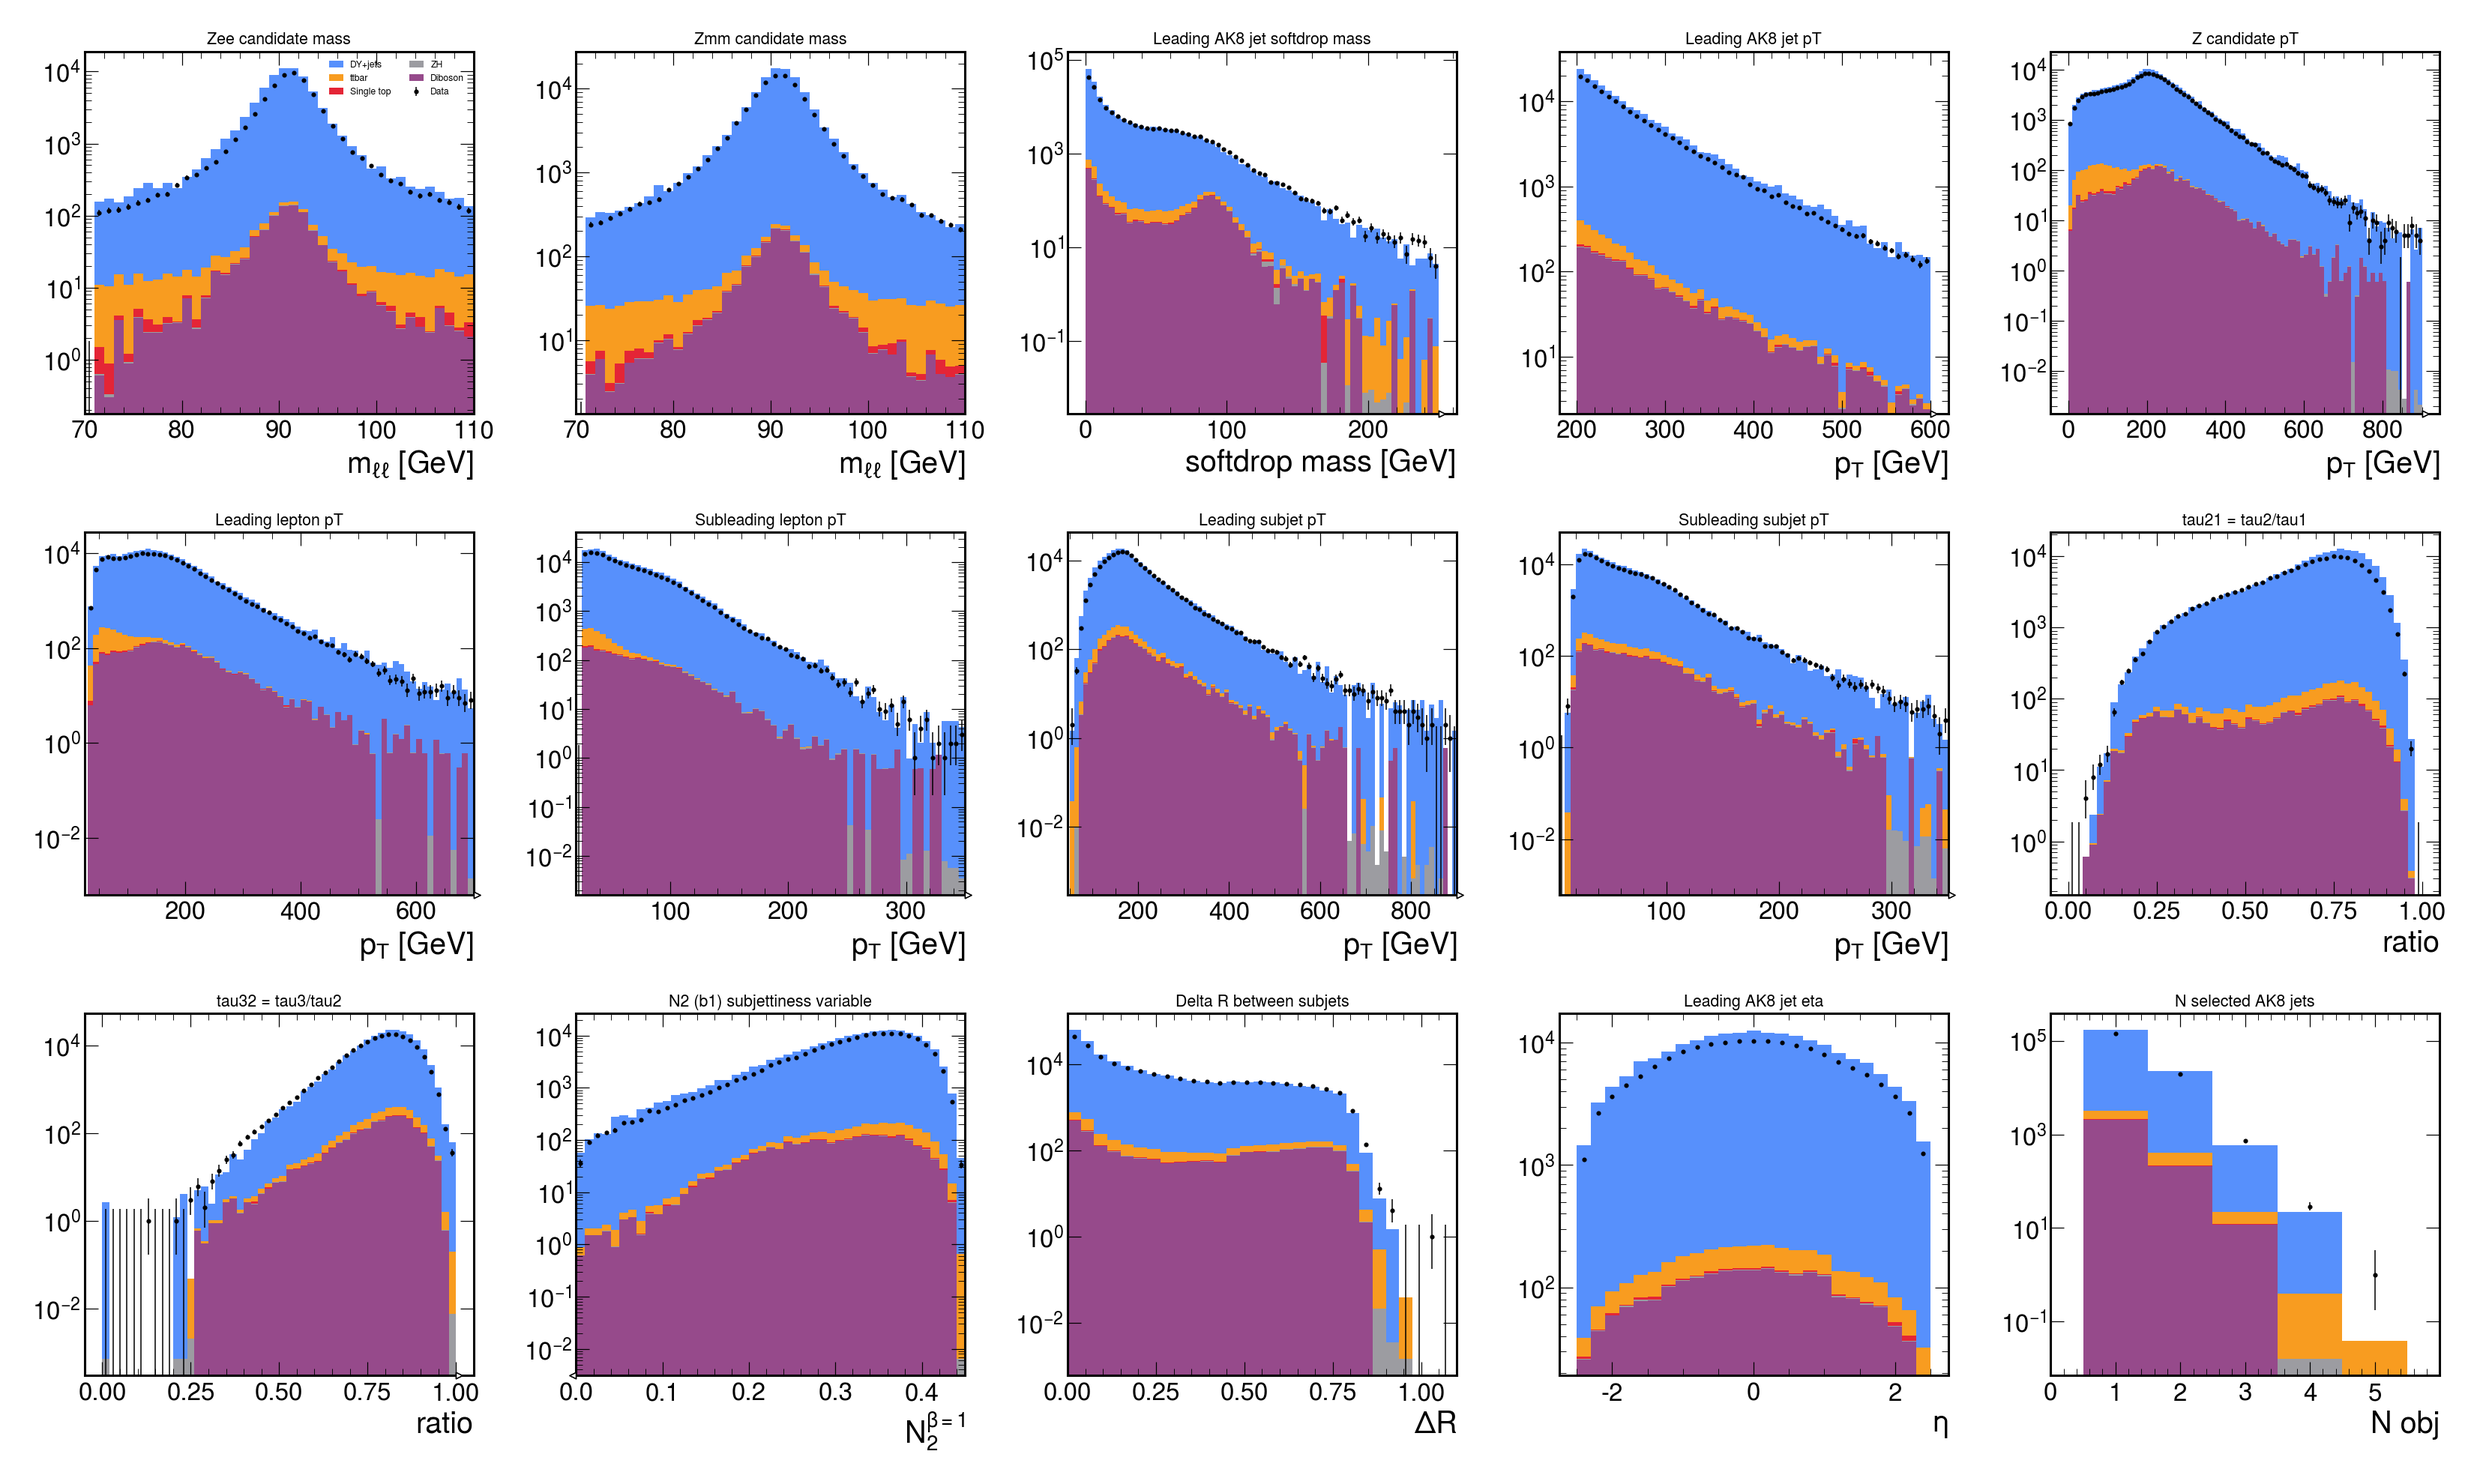
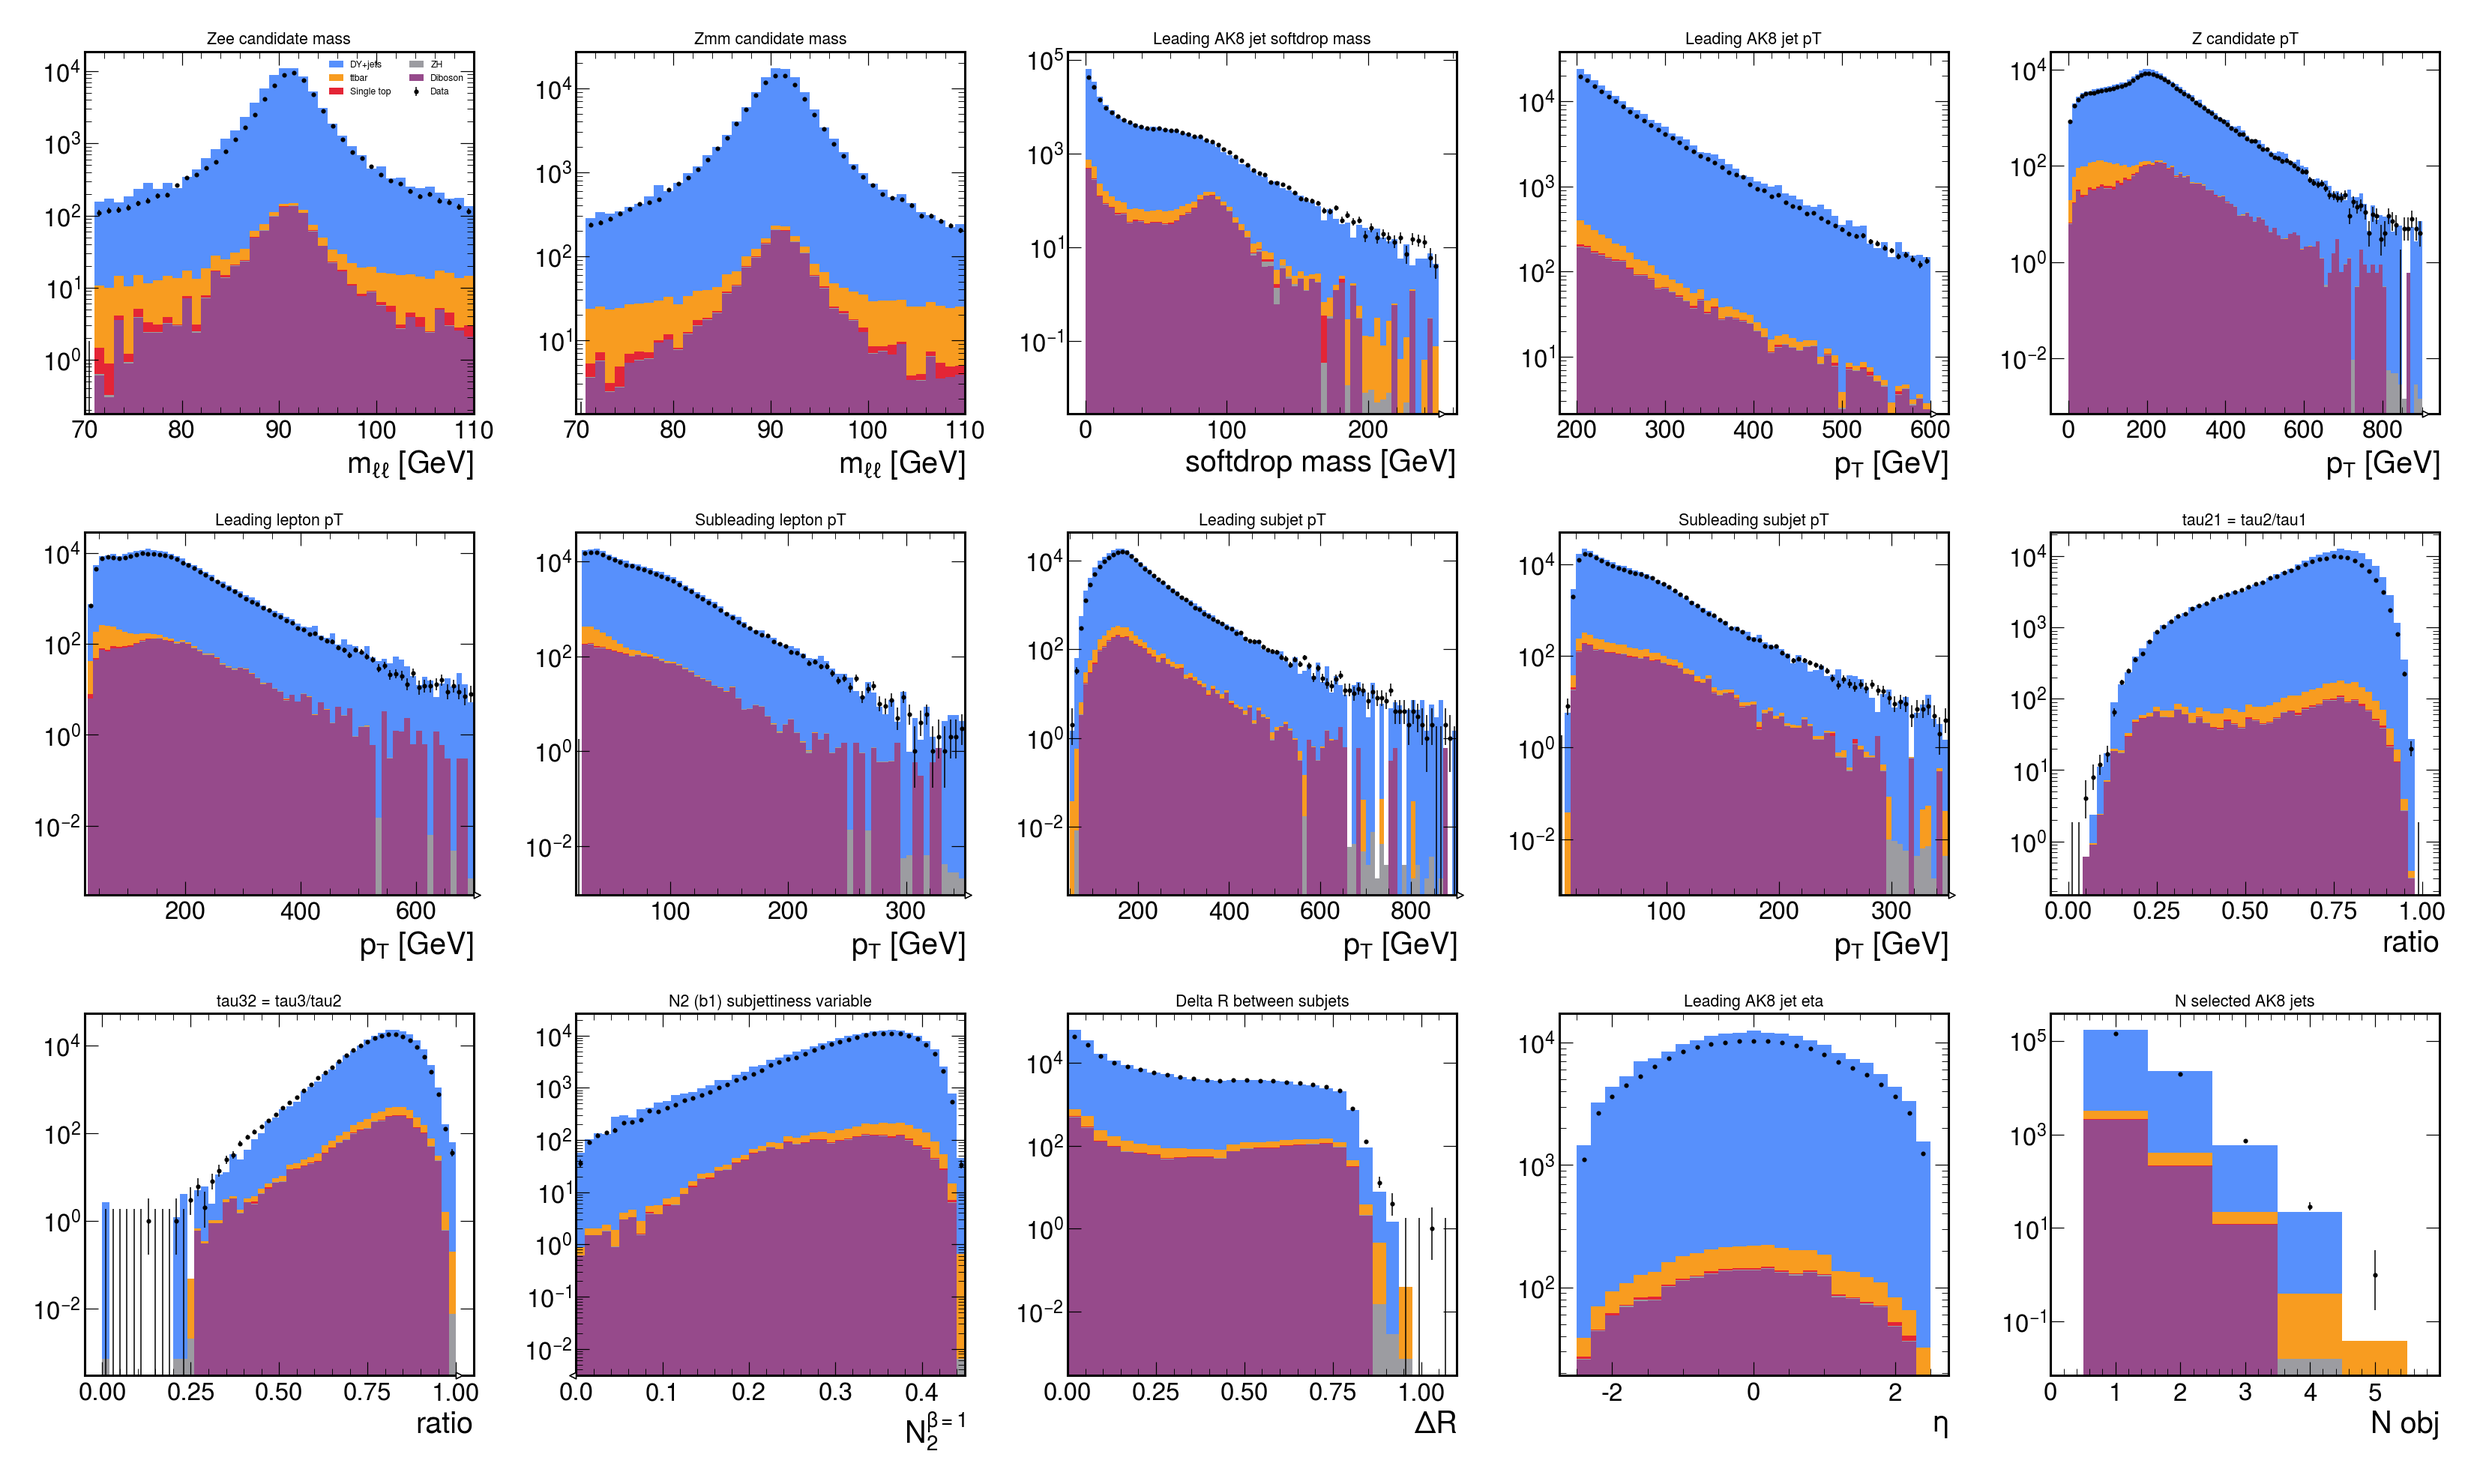
Fix Z_bjet double-counting in the full overview grid
plot_full_overview.py was summing the "region" axis (Z_jet + Z_bjet)
for most cmp_* histograms, but Z_bjet is a strict subset of Z_jet
(same events, plus the ParticleNetMD Xbb tag requirement -- see
QCD_validation.py's fill_comparison_hists), not an exclusive category.
Summing both together double-counted every b-tagged event. Now
explicitly selects region="Z_jet" (the inclusive selection) instead of
summing. Verified the fix: for DY2J's cmp_pt_zcand, old-scaled-yield -
new-scaled-yield = 948.3, exactly matching the independently-computed
Z_bjet-only contribution. Effect is small in the plots (b-tagged
fraction is a small slice of the inclusive selection) but the grid is
now numerically correct. njet has no region axis to select (its
Z_jet/Z_bjet split isn't stored as a separate axis) -- left as a no-op
with a comment explaining why.

diff --git a/plot_full_overview.py b/plot_full_overview.py
@@ -52,21 +52,28 @@ ORDER = ["Diboson", "ZH", "Single top", "ttbar", "DY+jets"]
 # xlim values are the actual populated range summed across all 16 datasets (checked directly
 # against the merged .coffea output) -- crops the padding of zero-content bins left over from
 # each histogram's wider default axis definition, without touching the underlying binning/data.
+#
+# region is always explicitly selected as "Z_jet" (the inclusive selection, no b-tag requirement)
+# rather than summed over: "Z_bjet" is a strict *subset* of "Z_jet" (same events, plus the
+# ParticleNetMD Xbb tag requirement -- see QCD_validation.py's fill_comparison_hists), so summing
+# both together would double-count every b-tagged event.
 PLOTS = [
-    ("cmp_mass_zcand", {"channel": "Zee"}, ["region"], "Zee candidate mass", True, (70, 110)),
-    ("cmp_mass_zcand", {"channel": "Zmm"}, ["region"], "Zmm candidate mass", True, (70, 110)),
+    ("cmp_mass_zcand", {"channel": "Zee", "region": "Z_jet"}, [], "Zee candidate mass", True, (70, 110)),
+    ("cmp_mass_zcand", {"channel": "Zmm", "region": "Z_jet"}, [], "Zmm candidate mass", True, (70, 110)),
     ("jet0_msoftdrop", {}, ["flav"], "Leading AK8 jet softdrop mass", True, None),
     ("jet0_pt", {}, ["flav"], "Leading AK8 jet pT", True, None),
-    ("cmp_pt_zcand", {}, ["region", "channel"], "Z candidate pT", True, None),
-    ("cmp_pt_lep0", {}, ["region", "channel"], "Leading lepton pT", True, (25, 700)),
-    ("cmp_pt_lep1", {}, ["region", "channel"], "Subleading lepton pT", True, (20, 350)),
-    ("cmp_pt_sub0", {}, ["region", "channel"], "Leading subjet pT", True, (45, 900)),
-    ("cmp_pt_sub1", {}, ["region", "channel"], "Subleading subjet pT", True, (5, 350)),
+    ("cmp_pt_zcand", {"region": "Z_jet"}, ["channel"], "Z candidate pT", True, None),
+    ("cmp_pt_lep0", {"region": "Z_jet"}, ["channel"], "Leading lepton pT", True, (25, 700)),
+    ("cmp_pt_lep1", {"region": "Z_jet"}, ["channel"], "Subleading lepton pT", True, (20, 350)),
+    ("cmp_pt_sub0", {"region": "Z_jet"}, ["channel"], "Leading subjet pT", True, (45, 900)),
+    ("cmp_pt_sub1", {"region": "Z_jet"}, ["channel"], "Subleading subjet pT", True, (5, 350)),
     ("jet0_tau21", {}, ["flav"], "tau21 = tau2/tau1", True, None),
     ("jet0_tau32", {}, ["flav"], "tau32 = tau3/tau2", True, None),
     ("jet0_n2b1", {}, ["flav"], "N2 (b1) subjettiness variable", True, (0, 0.45)),
-    ("cmp_dr_subjets", {}, ["region", "channel"], "Delta R between subjets", True, (0, 1.1)),
+    ("cmp_dr_subjets", {"region": "Z_jet"}, ["channel"], "Delta R between subjets", True, (0, 1.1)),
     ("jet0_eta", {}, ["flav"], "Leading AK8 jet eta", True, None),
+    # njet has no "region" axis to select (its axes are just ["syst", "n"]) -- its Z_jet/Z_bjet
+    # split happens differently in QCD_validation.py and isn't separable here; left as-is.
     ("njet", {}, [], "N selected AK8 jets", True, (0.5, 6.5)),
 ]
 
